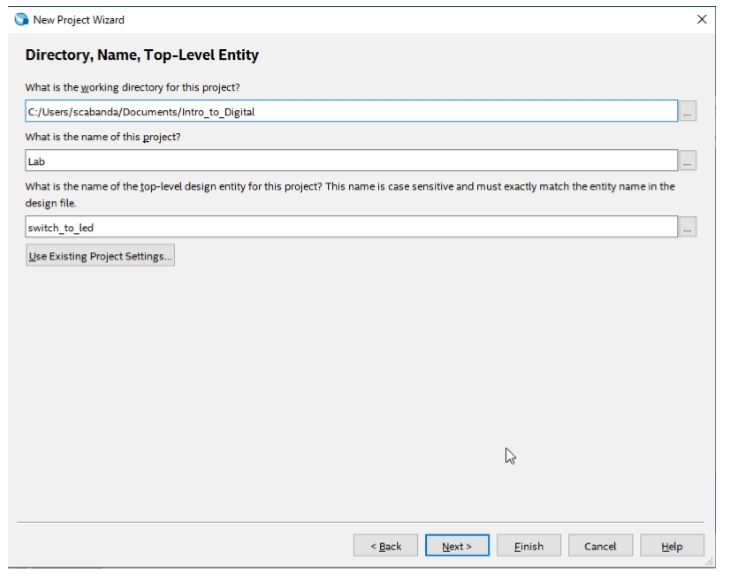
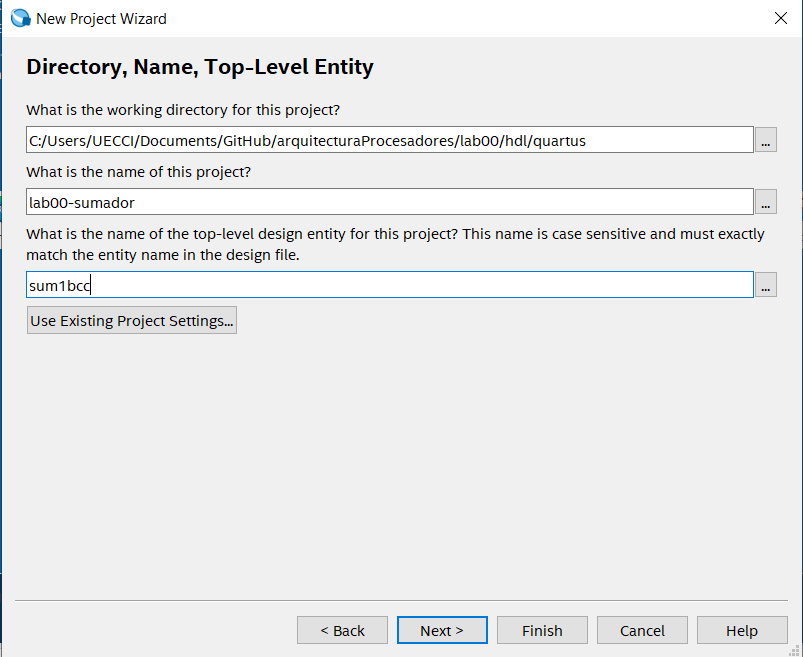
ok

Changed region(s): [[0.0, 0.0, 0.9648, 0.4991], [0.0, 0.0, 1.0, 1.0], [0.6847, 0.7799, 0.7158, 0.8111]]

diff --git a/README.md b/README.md
@@ -36,15 +36,32 @@ Esta guia esta basada en el lab0 de intel [link](./docs//Intro_to_FPGA.pdf)
 ## Configuración básica para configurar un nuevo proyecto en Quartus Prime lite
 
 * Una vez instalado, debe abrir el programa ´Quartus´.
-* En la barra de herramientas (toolbar) de Quartus, navegar en el menu 'File' y hacer clic en  ´´´New Project Wizard´´´. (ver imagen)
+* En la barra de herramientas (toolbar) de Quartus, navegar en el menu ```File``` y hacer clic en  ```New Project Wizard```. (ver imagen)
 
 ![proyectWizard](./figs/f1.PNG) 
 
+* ***Directory,Name,Top-LevelEntity***,  seleccione el directorio donde se guarda el proyecto y el nombre del mismo. Tenga presente que debe colocar el nombre del módulo top en la tercera casilla, puede ser el mismo del proyecto. (ver imagen) 
+    ***Recuerde:*** El nombre del módulo-top es sensible a mayusculas
+
 ![proyectWizard](./figs/f2.PNG) 
+
+* ***Project Type***, seleccione el template ```Empy project```.
+
+* ***Add File***, si ya cuenta con los archivos fuentes de HDL adicione los ficheros respectivos. De igual manera, pueden agragar archivos fuentes mas adelante.
+
+*  ***Family, Device & Board Settings***,  Busque la tarjeta de desarrollo o la referencia de la FPGA  que se va a utilizar, ```10M50DAF484```, si considera necesario busque  el nombre la casilla  ```Name filter```, seleccione en el panel  Available devices el dispositivo usado. (ver imagen)
 
 ![proyectWizard](./figs/f3.PNG) 
 
+
+* ***EDA Tool Settings***,  espeficar la herramienta de simulación que se va a utilizar, se recomienda  ```ModemSim```. (ver imagen)
+
 ![proyectWizard](./figs/f4.PNG) 
+
+* ***Summary***, se debe revisar que la información de este panel este acorde según la configuración realizada . (ver imagen)
+
+![proyectWizard](./figs/f4b.PNG) 
+
 
 ![proyectWizard](./figs/f5.PNG) 
 
